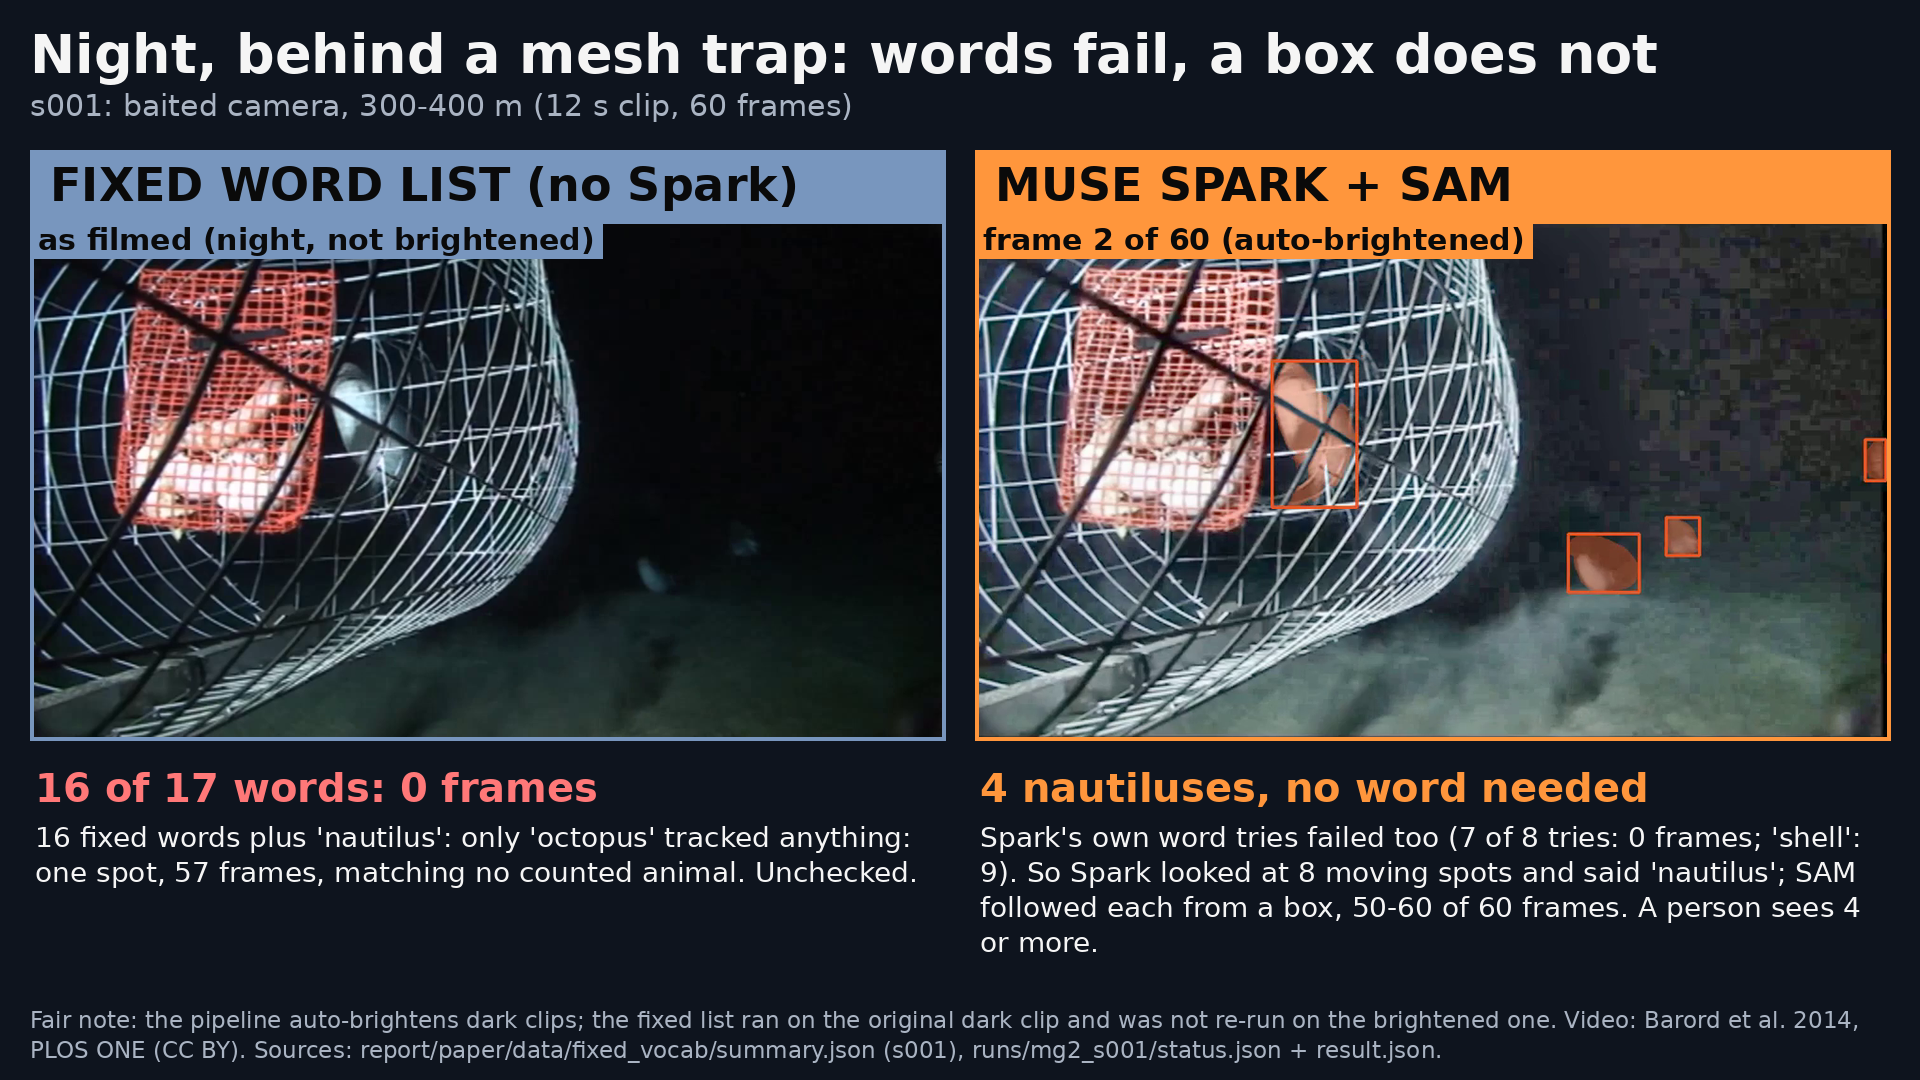
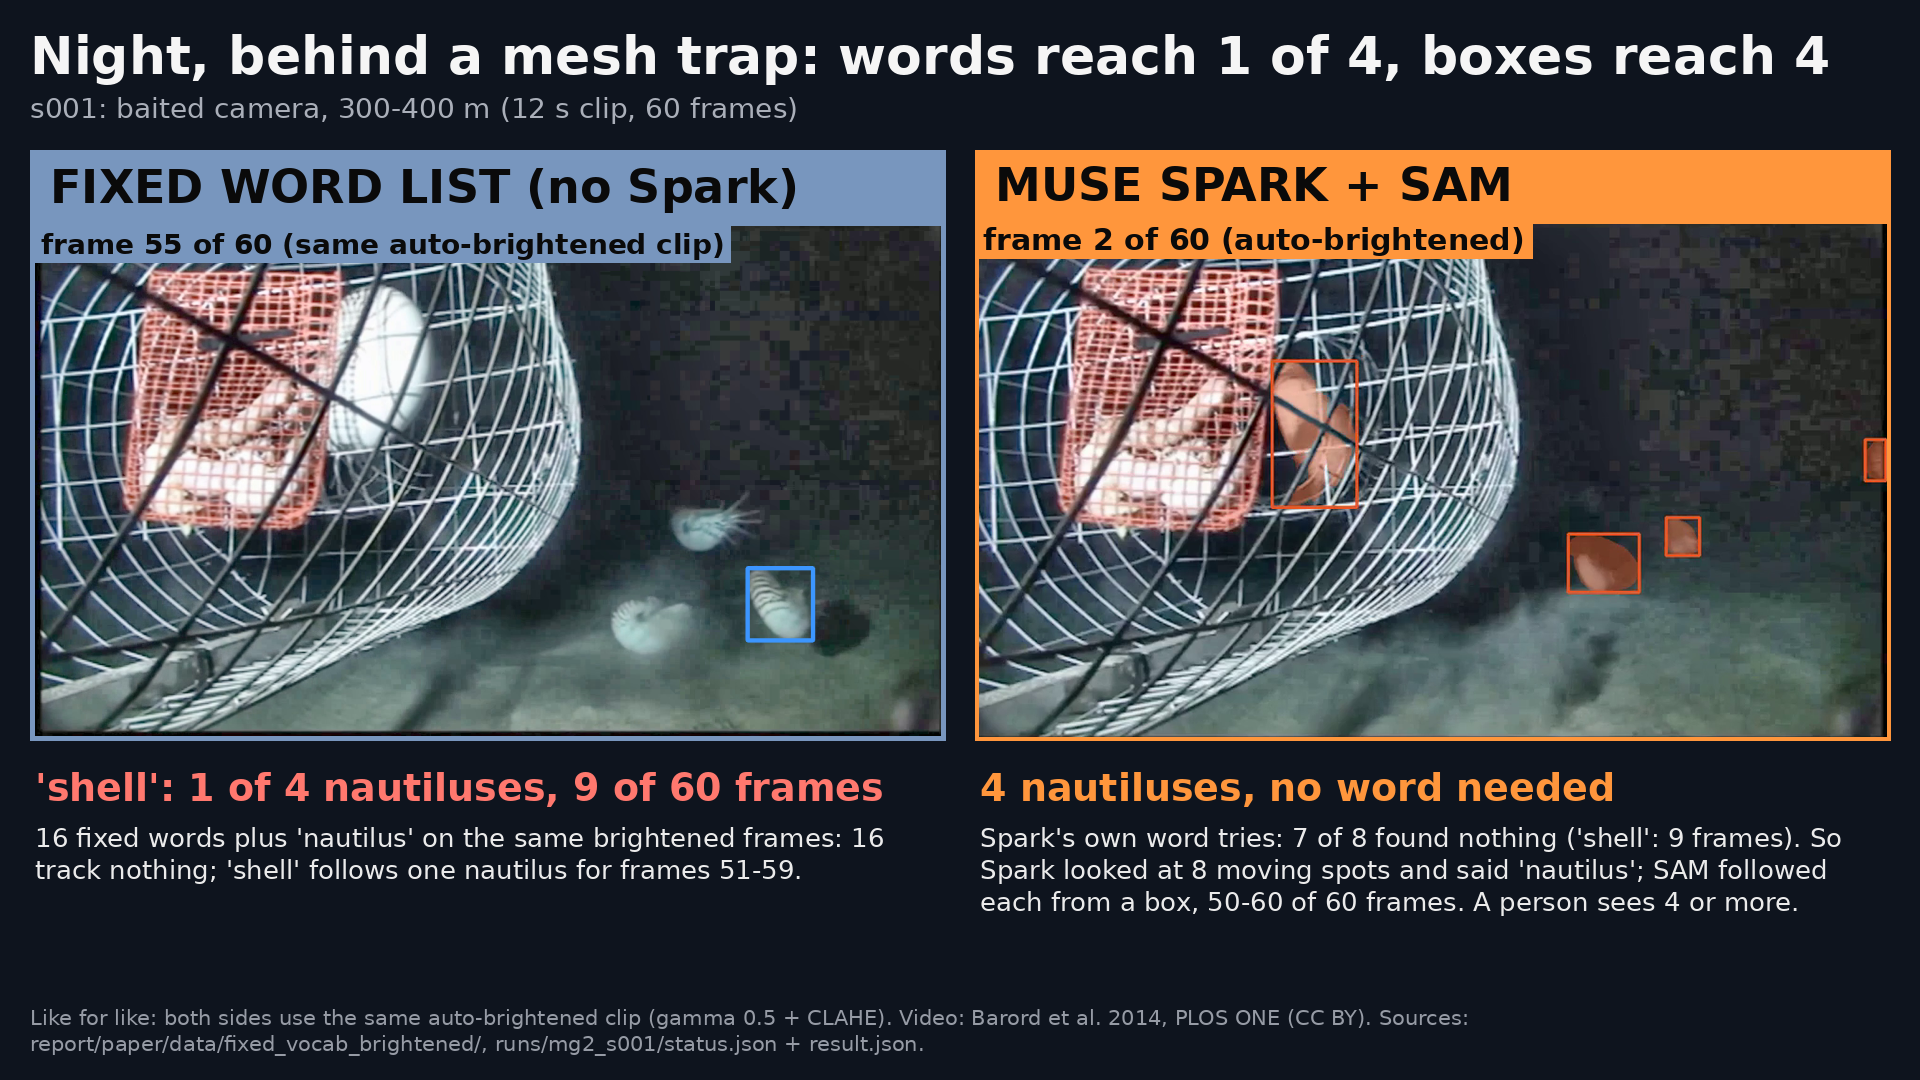
report/figures: compare_s001_night rebuilt on the like-for-like baseline (same brightened clip: 'shell' 1 of 4 nautiluses, 9 of 60 frames; 16 others 0), generator script
Claude-Session: https://claude.ai/code/session_01L98RjNEcKtTW53JWgLWg98

diff --git a/report/scripts/compare_s001_night.py b/report/scripts/compare_s001_night.py
@@ -1,0 +1,75 @@
+"""Rebuild report/figures/compare_s001_night.png on the like-for-like baseline (fixed words on the SAME brightened
+clip, report/paper/data/fixed_vocab_brightened/). The right panel (pipeline, frame 2 with its 4 nautilus boxes) is
+kept from the 4749de2 still; the left panel, headline, texts and fair note are redrawn.
+
+  python3 report/scripts/compare_s001_night.py
+"""
+import os, sys
+ROOT = os.path.dirname(os.path.dirname(os.path.dirname(os.path.abspath(__file__))))
+sys.path.insert(0, ROOT); os.chdir(ROOT)
+from fishcount import video, tracks  # noqa: E402
+import cv2, numpy as np  # noqa: E402
+from PIL import Image, ImageDraw, ImageFont  # noqa: E402
+
+OUT = "report/figures/compare_s001_night.png"
+OLD_REV = "4749de2:report/figures/compare_s001_night.png"   # the first still; its right panel is reused
+BG = (14, 20, 30)
+F = "/usr/share/fonts/truetype/dejavu/DejaVuSans.ttf"
+FB = "/usr/share/fonts/truetype/dejavu/DejaVuSans-Bold.ttf"
+font = lambda p, s: ImageFont.truetype(p, s)
+
+import io, subprocess  # noqa: E402
+old = Image.open(io.BytesIO(subprocess.run(["git", "show", OLD_REV], capture_output=True, check=True).stdout)).convert("RGB")
+img = Image.new("RGB", old.size, BG)
+img.paste(old.crop((975, 150, 1891, 741)), (975, 150))          # right panel as it was
+
+# left panel: same brightened clip, the frame where 'shell' has its box, box drawn like the pipeline's
+dets = tracks.parse_boxes(open("report/paper/data/fixed_vocab_brightened/s001__shell.txt").read())
+f = 55 if 55 in dets else sorted(dets)[len(dets) // 2]
+fr = video.frames("runs/mg2_s001/clip.mp4", [f])[f].copy()
+for d in dets[f]:
+    x0, y0, x1, y1 = (int(v) for v in d["box"])
+    cv2.rectangle(fr, (x0, y0), (x1, y1), (255, 150, 60), 5)     # BGR blue-ish, the left panel's colour
+g = fr.max(axis=2) > 24                                         # the clip is pillar/letterboxed: crop to the picture
+ys, xs = np.where(g.any(axis=1))[0], np.where(g.any(axis=0))[0]
+x0c, x1c, y0c, y1c = xs[0] + 4, xs[-1] - 4, ys[0] + 4, ys[-1] - 4
+h_need = int((x1c - x0c) * 510 / 906)                           # same aspect as the panel; keep the lower part (animals)
+y0c = max(y0c, y1c - h_need)
+panel = cv2.resize(fr[y0c:y1c, x0c:x1c], (906, 510), interpolation=cv2.INTER_AREA)[:, :, ::-1]
+d = ImageDraw.Draw(img)
+d.rectangle((30, 150, 945, 740), fill=(120, 150, 190))
+img.paste(Image.fromarray(panel), (35, 226))
+d.text((50, 160), "FIXED WORD LIST (no Spark)", font=font(FB, 46), fill=(10, 10, 10))
+lab = f"frame {f} of 60 (same auto-brightened clip)"
+w = d.textlength(lab, font=font(FB, 28))
+d.rectangle((35, 226, 35 + w + 12, 262), fill=(120, 150, 190))
+d.text((41, 228), lab, font=font(FB, 28), fill=(10, 10, 10))
+
+d.text((30, 25), "Night, behind a mesh trap: words reach 1 of 4, boxes reach 4", font=font(FB, 52), fill=(245, 245, 245))
+d.text((30, 92), "s001: baited camera, 300-400 m (12 s clip, 60 frames)", font=font(F, 28), fill=(170, 175, 185))
+
+def para(x, y, text, size, width, fill, bold=False):
+    fnt = font(FB if bold else F, size)
+    line, lines = "", []
+    for wd in text.split():
+        t = (line + " " + wd).strip()
+        if d.textlength(t, font=fnt) > width:
+            lines.append(line); line = wd
+        else:
+            line = t
+    lines.append(line)
+    for i, ln in enumerate(lines):
+        d.text((x, y + i * int(size * 1.25)), ln, font=fnt, fill=fill)
+
+para(35, 765, "'shell': 1 of 4 nautiluses, 9 of 60 frames", 38, 900, (255, 120, 110), bold=True)
+para(35, 822, "16 fixed words plus 'nautilus' on the same brightened frames: 16 track nothing; 'shell' follows "
+     "one nautilus for frames 51-59.", 26, 900, (235, 235, 235))
+para(980, 765, "4 nautiluses, no word needed", 38, 900, (255, 150, 60), bold=True)
+para(980, 822, "Spark's own word tries: 7 of 8 found nothing ('shell': 9 frames). So Spark looked at 8 moving spots "
+     "and said 'nautilus'; SAM followed each from a box, 50-60 of 60 frames. A person sees 4 or more.",
+     26, 900, (235, 235, 235))
+para(30, 1005, "Like for like: both sides use the same auto-brightened clip (gamma 0.5 + CLAHE). Video: Barord et al. "
+     "2014, PLOS ONE (CC BY). Sources: report/paper/data/fixed_vocab_brightened/, runs/mg2_s001/status.json + result.json.",
+     21, 1860, (150, 155, 165))
+img.save(OUT)
+print(OUT, img.size, "left frame", f)
